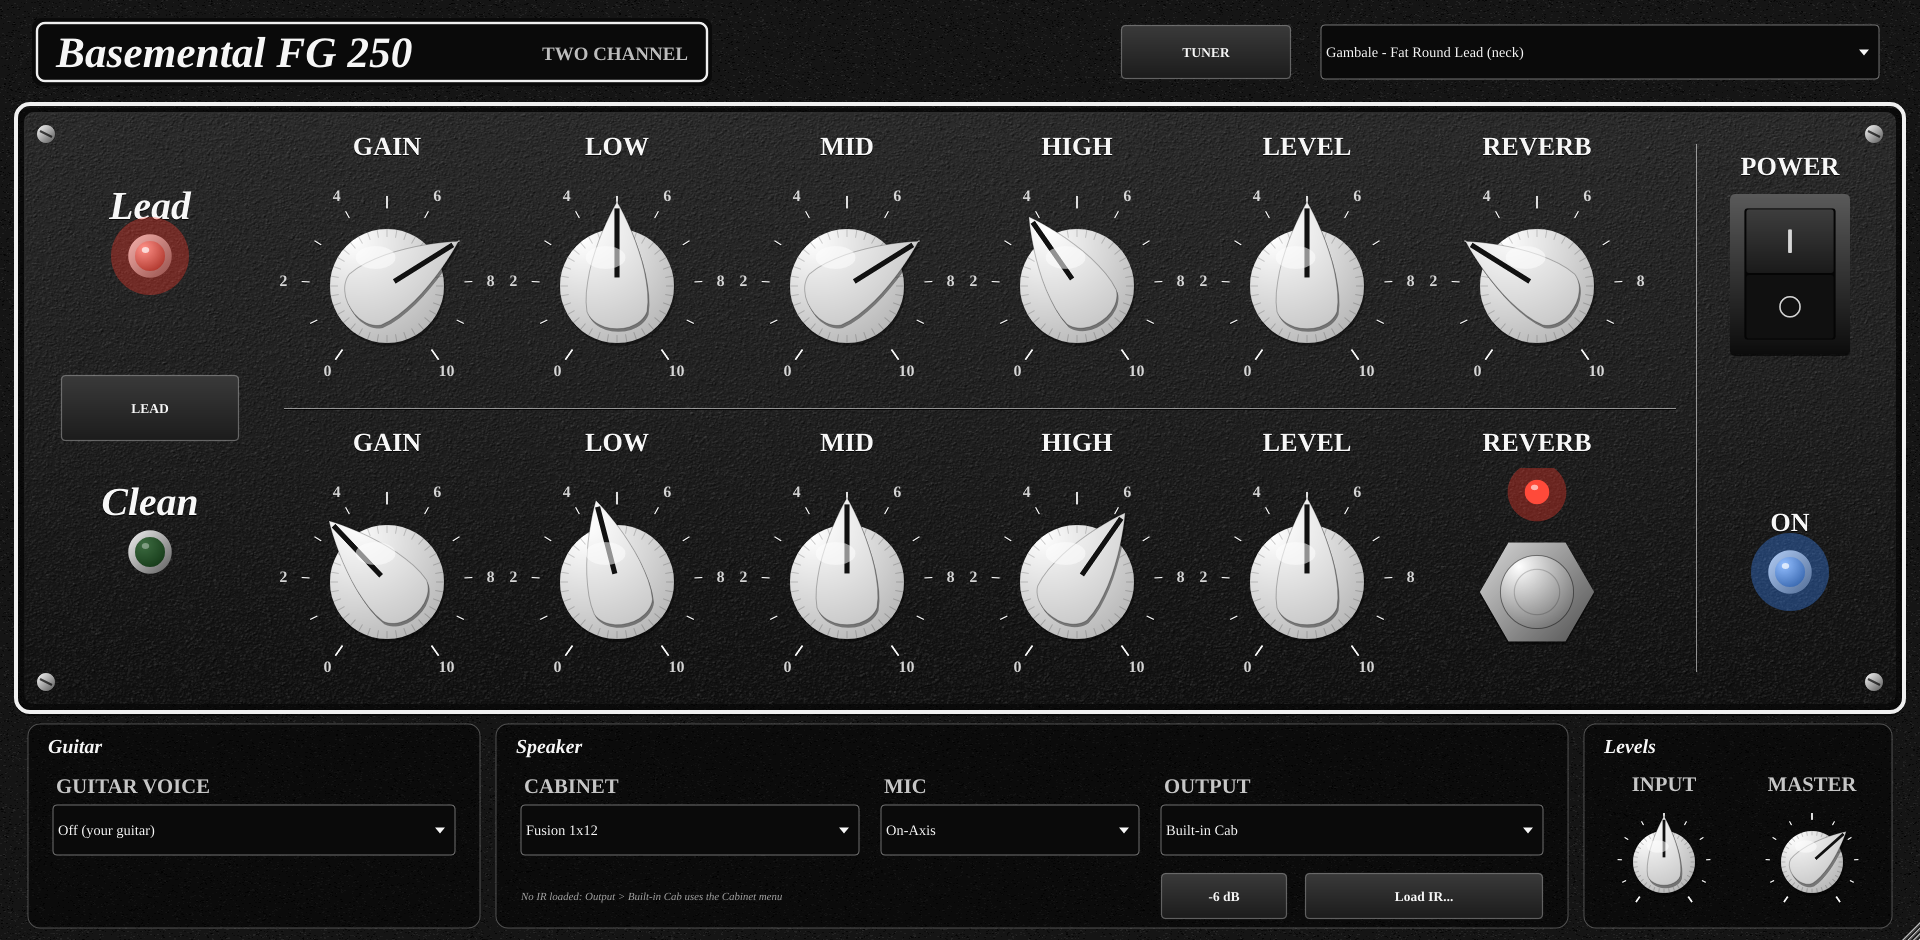
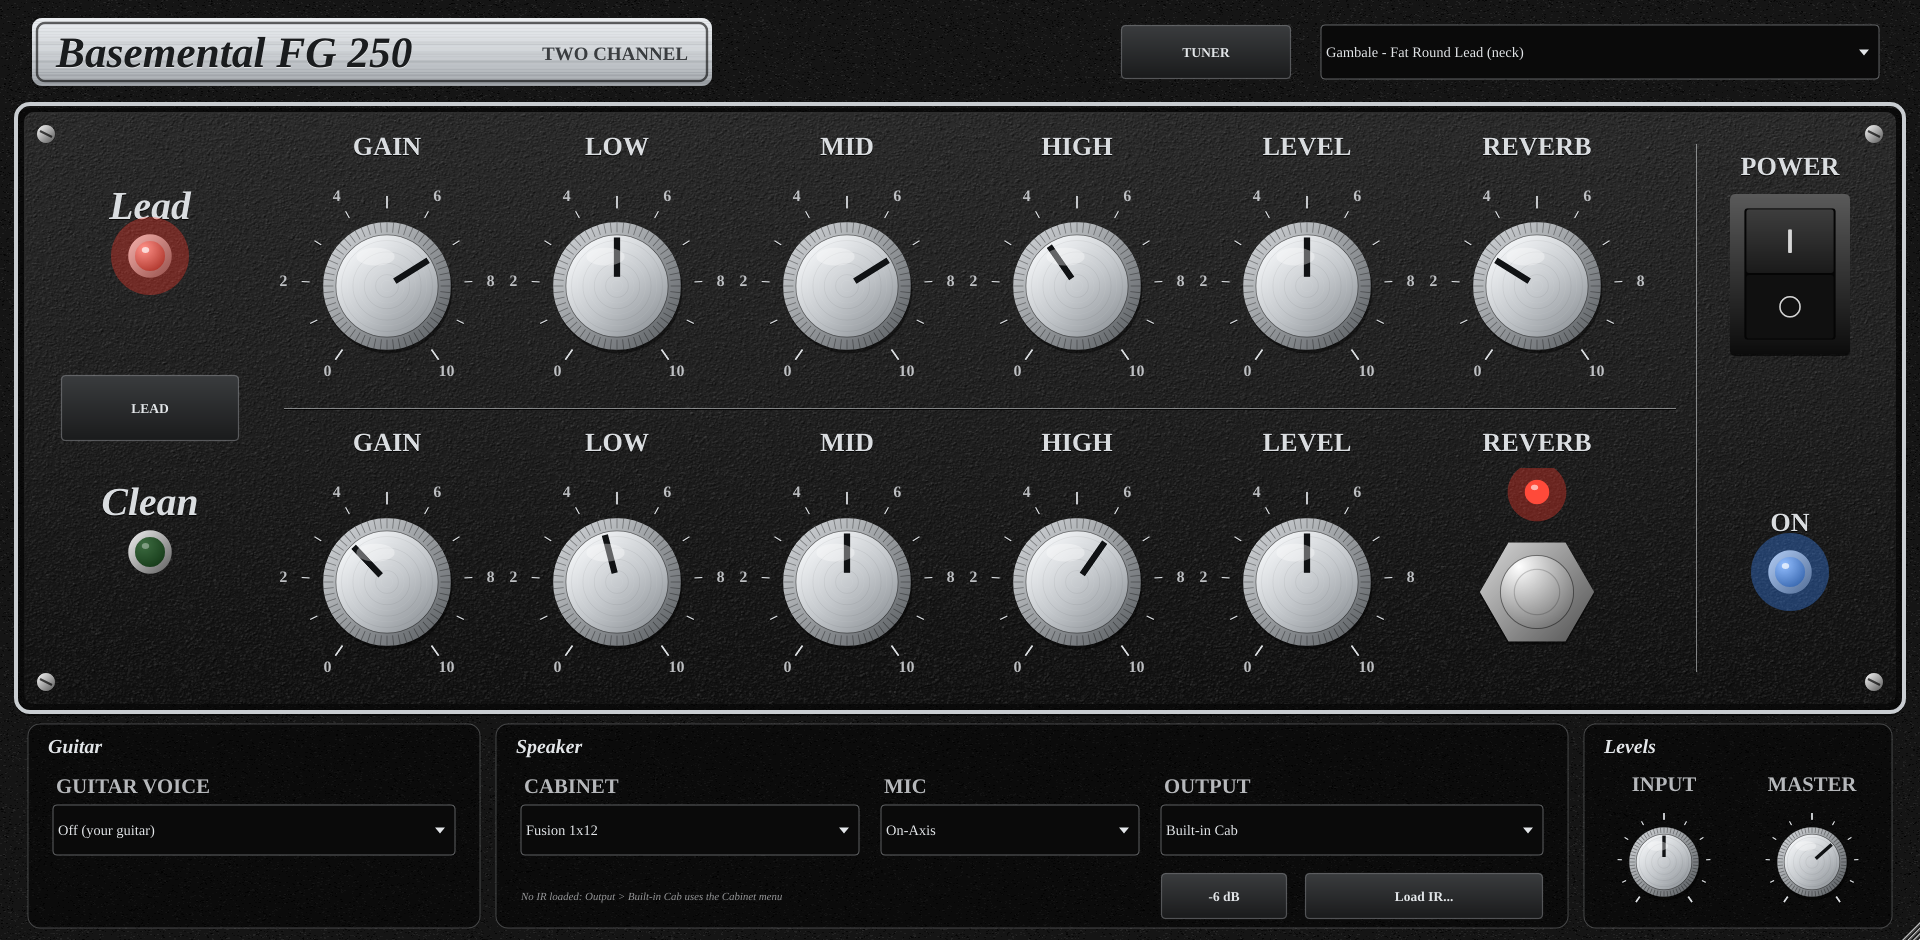
Black-and-silver face: machined aluminium knobs, silver lettering/trim, brushed aluminium nameplate
Claude-Session: https://claude.ai/code/session_01SErY97rsBrNjufxFoFZJH3

diff --git a/Source/PluginEditor.cpp b/Source/PluginEditor.cpp
@@ -6,12 +6,12 @@ namespace
     // black & white theme
     const juce::Colour oxblood   { 0xff151515 };   // black tolex
     const juce::Colour oxblood2  { 0xff0a0a0a };
-    const juce::Colour piping    { 0xfff0f0f0 };
+    const juce::Colour piping    { 0xffc9cdd1 };   // silver trim
     const juce::Colour plateHi   { 0xff2c2c2c };   // black brushed faceplate
     const juce::Colour plateLo   { 0xff111111 };
-    const juce::Colour greyText  { 0xffbdbdbd };
-    const juce::Colour ink       { 0xfff7f7f7 };   // lettering: white on black
-    const juce::Colour cream     { 0xfff6f6f6 };
+    const juce::Colour greyText  { 0xff3a3d40 };
+    const juce::Colour ink       { 0xffdadde0 };   // silver lettering   // lettering: white on black
+    const juce::Colour cream     { 0xffe2e5e8 };
     const juce::Colour blueLamp  { 0xff3d8bff };
 
     juce::String serif() { return juce::Font::getDefaultSerifFontName(); }
@@ -96,52 +96,46 @@ void AmpLookAndFeel::drawRotarySlider (juce::Graphics& g, int x, int y, int w, i
         }
     }
 
-    // bakelite skirt
-    const float kr = r * 0.50f;
-    g.setColour (Colours::black.withAlpha (0.35f));
-    g.fillEllipse (c.x - kr + 1.5f, c.y - kr + 3.0f, kr * 2, kr * 2);
-    ColourGradient skirt (Colour (0xffffffff), c.x - kr * 0.6f, c.y - kr * 0.8f, Colour (0xffb0b0b0), c.x + kr * 0.7f, c.y + kr, true);
+    // machined-aluminium knob: knurled skirt + brushed cap + engraved line
+    const float kr = r * 0.56f;
+    g.setColour (Colours::black.withAlpha (0.45f));
+    g.fillEllipse (c.x - kr + 1.5f, c.y - kr + 3.5f, kr * 2, kr * 2);
+    ColourGradient skirt (Colour (0xffd9dcdf), c.x - kr, c.y - kr, Colour (0xff55595d), c.x + kr, c.y + kr, false);
     g.setGradientFill (skirt);
     g.fillEllipse (c.x - kr, c.y - kr, kr * 2, kr * 2);
-    // knurled rim
-    g.setColour (Colours::black.withAlpha (0.18f));
-    for (int i = 0; i < 36; ++i)
+    g.setColour (Colours::black.withAlpha (0.35f));
+    for (int i = 0; i < 60; ++i)   // knurling
     {
-        const float a = (float) i * MathConstants<float>::twoPi / 36.0f;
-        g.drawLine (c.x + kr * 0.86f * std::sin (a), c.y - kr * 0.86f * std::cos (a), c.x + kr * std::sin (a), c.y - kr * std::cos (a), 1.0f);
+        const float a = (float) i * MathConstants<float>::twoPi / 60.0f;
+        g.drawLine (c.x + kr * 0.84f * std::sin (a), c.y - kr * 0.84f * std::cos (a), c.x + kr * std::sin (a), c.y - kr * std::cos (a), 0.9f);
     }
-
-    // chicken-head pointer
-    Path p;
-    const float L = r * 0.74f, wB = kr * 0.62f;
-    p.startNewSubPath (0.0f, -L);
-    p.cubicTo (wB * 0.35f, -L * 0.75f, wB, -kr * 0.2f, wB * 0.85f, kr * 0.45f);
-    p.cubicTo (wB * 0.6f, kr * 0.85f, -wB * 0.6f, kr * 0.85f, -wB * 0.85f, kr * 0.45f);
-    p.cubicTo (-wB, -kr * 0.2f, -wB * 0.35f, -L * 0.75f, 0.0f, -L);
-    p.closeSubPath();
-    const auto tf = AffineTransform::rotation (angle).translated (c);
-    g.setColour (Colours::black.withAlpha (0.4f));
-    g.fillPath (p, tf.translated (1.5f, 3.0f));
-    ColourGradient bake (Colour (0xffffffff), c.x - kr * 0.5f, c.y - kr, Colour (0xffbdbdbd), c.x + kr * 0.6f, c.y + kr, true);
-    g.setGradientFill (bake);
-    g.fillPath (p, tf);
-    g.setColour (Colours::black.withAlpha (0.25f));
-    g.strokePath (p, PathStrokeType (1.0f), tf);
-    // black inlay line
-    g.setColour (Colour (0xff111111));
-    g.drawLine (c.x + (L * 0.92f) * std::sin (angle), c.y - (L * 0.92f) * std::cos (angle),
-                c.x + (kr * 0.15f) * std::sin (angle), c.y - (kr * 0.15f) * std::cos (angle), jmax (1.5f, r * 0.045f));
-    // gloss
-    g.setColour (Colours::white.withAlpha (0.55f));
-    g.fillEllipse (c.x - kr * 0.55f, c.y - kr * 0.7f, kr * 0.7f, kr * 0.4f);
+    const float cr = kr * 0.80f;
+    ColourGradient cap (Colour (0xfff4f6f8), c.x - cr * 0.7f, c.y - cr * 0.8f, Colour (0xff8a8f94), c.x + cr * 0.8f, c.y + cr, false);
+    cap.addColour (0.5, Colour (0xffc4c8cc));
+    g.setGradientFill (cap);
+    g.fillEllipse (c.x - cr, c.y - cr, cr * 2, cr * 2);
+    for (int ring = 1; ring < 9; ++ring)   // concentric turning marks
+    {
+        const float rr = cr * (float) ring / 9.0f;
+        g.setColour ((ring % 2 ? Colours::white : Colours::black).withAlpha (0.06f));
+        g.drawEllipse (c.x - rr, c.y - rr, rr * 2, rr * 2, 0.8f);
+    }
+    g.setColour (Colours::black.withAlpha (0.5f));
+    g.drawEllipse (c.x - cr, c.y - cr, cr * 2, cr * 2, 0.8f);
+    // engraved indicator line
+    const float l0 = cr * 0.18f, l1 = cr * 0.95f;
+    g.setColour (Colour (0xff101214));
+    g.drawLine (c.x + l0 * std::sin (angle), c.y - l0 * std::cos (angle), c.x + l1 * std::sin (angle), c.y - l1 * std::cos (angle), jmax (2.0f, r * 0.055f));
+    g.setColour (Colours::white.withAlpha (0.35f));
+    g.fillEllipse (c.x - cr * 0.6f, c.y - cr * 0.75f, cr * 0.75f, cr * 0.35f);
 }
 
 void AmpLookAndFeel::drawButtonBackground (juce::Graphics& g, juce::Button& b, const juce::Colour&, bool over, bool down)
 {
     auto r = b.getLocalBounds().toFloat().reduced (1.5f);
     const bool on = b.getToggleState();
-    juce::ColourGradient grad (on ? cream : juce::Colour (0xff3a3a3a), r.getX(), r.getY(),
-                               on ? juce::Colour (0xffcccccc) : juce::Colour (0xff1c1c1c), r.getX(), r.getBottom(), false);
+    juce::ColourGradient grad (on ? juce::Colour (0xffeef0f2) : juce::Colour (0xff3a3c3e), r.getX(), r.getY(),
+                               on ? juce::Colour (0xff9da2a7) : juce::Colour (0xff1a1b1c), r.getX(), r.getBottom(), false);
     g.setGradientFill (grad);
     g.fillRoundedRectangle (r, 4.0f);
     if (over) { g.setColour (juce::Colours::white.withAlpha (0.12f)); g.fillRoundedRectangle (r, 4.0f); }
@@ -329,12 +323,26 @@ void Fusion250Editor::paint (juce::Graphics& g)
 
     // nameplate
     auto np = juce::Rectangle<float> (16 * s, 9 * s, 340 * s, 34 * s);
-    g.setColour (oxblood2);
-    g.fillRoundedRectangle (np, 5 * s);
-    g.setColour (piping);
+    {   // brushed-aluminium badge
+        juce::ColourGradient al (juce::Colour (0xffeceff2), np.getX(), np.getY(), juce::Colour (0xff9ea3a8), np.getX(), np.getBottom(), false);
+        al.addColour (0.5, juce::Colour (0xffcfd3d7));
+        g.setGradientFill (al);
+        g.fillRoundedRectangle (np, 5 * s);
+        juce::Random rr (7);
+        juce::Graphics::ScopedSaveState ss (g);
+        g.reduceClipRegion (np.toNearestInt());
+        for (float y = np.getY(); y < np.getBottom(); y += 1.0f)
+        {
+            g.setColour ((rr.nextBool() ? juce::Colours::white : juce::Colours::black).withAlpha (rr.nextFloat() * 0.08f));
+            g.drawHorizontalLine ((int) y, np.getX(), np.getRight());
+        }
+    }
+    g.setColour (juce::Colours::black.withAlpha (0.6f));
     g.drawRoundedRectangle (np.reduced (2.5f * s), 4 * s, 1.2f * s);
     g.setFont (engraveFont (24 * s, true));
-    g.setColour (cream);
+    g.setColour (juce::Colours::white.withAlpha (0.6f));
+    g.drawText ("Basemental FG 250", np.withTrimmedLeft (12 * s).translated (0, 1.0f), juce::Justification::centredLeft);
+    g.setColour (juce::Colour (0xff1a1c1e));
     g.drawText ("Basemental FG 250", np.withTrimmedLeft (12 * s), juce::Justification::centredLeft);
     g.setFont (juce::Font (juce::FontOptions (serif(), 10.5f * s, juce::Font::bold)));
     g.setColour (greyText);
